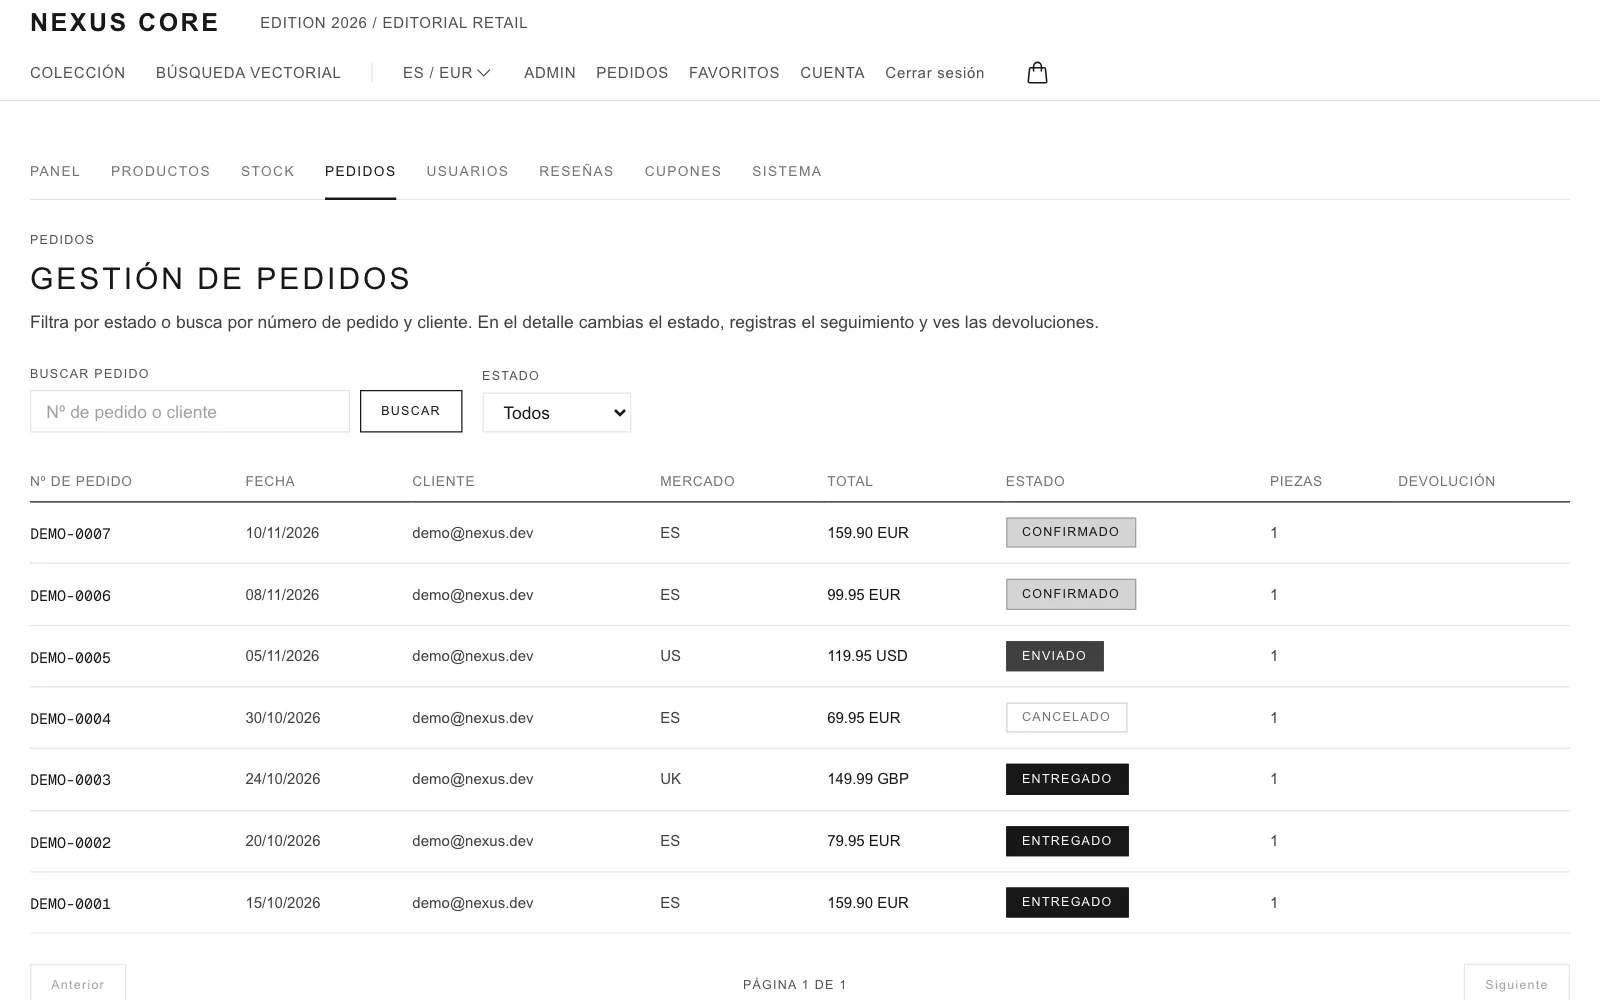
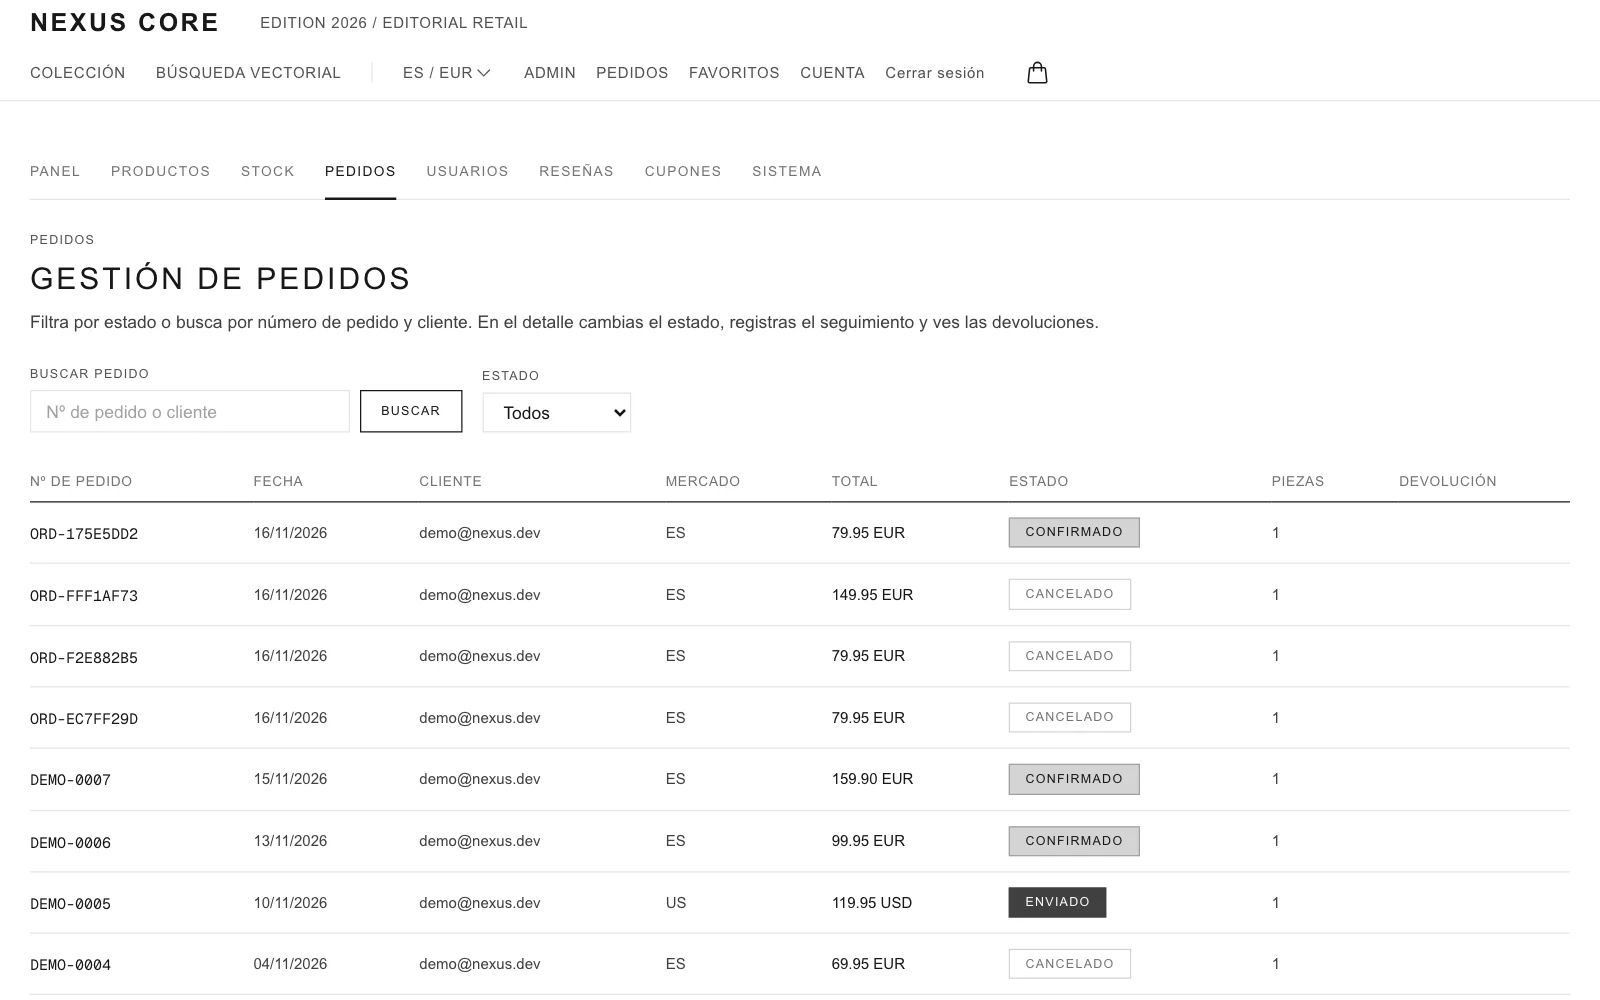
docs(readme): demo en vivo y capturas de producción
Añade la sección «Demo en vivo» al README (topología Vercel/Render/Neon,
cuentas demo, pago de prueba y limitaciones conocidas), regenera las
capturas de la landing desde producción y actualiza el estado en AGENTS.md.

diff --git a/AGENTS.md b/AGENTS.md
@@ -12,7 +12,8 @@
 | **Rama activa** | `main` = **V4 `product-reviews` + V5 `coupons` + V6 `photos-per-color`** mergeadas todas; ramas `feat/coupons` y `feat/photos-per-color` ya integradas |
 | **Fase** | **Hoja de ruta 6–15 (ecommerce completo) — aprobada** — **Fase 6 Deuda técnica (previa), 7.1–7.6 y mini-feature `product-photos` completadas** · **Fase 7 panel de administración COMPLETA (7.1–7.6)** · mini-features **`checkout-payment-grid`**, **`final-price-display`**, **`color-and-care`** completadas y **mergeadas** · fases 1–5 y 3.x/4.x completadas · **bloque «Mejoras de vitrina» V1–V6 COMPLETO** (V1 reviews, V2 zoom-lightbox, V3 wishlist, V4 product-reviews, V5 coupons, V6 fotos por color) · **Fase 8 — Operación interna y monitoring COMPLETA** (fuera del bloque V1–V6, PSP desactivada) |
 | **Tarea** | **Fase 10 — Landing, despliegue y docs**: **PR A** (código y configuración: Docker, perfiles `prod`/`demo`, modo demo, landing `/proyecto`, guía de despliegue, ADR-0008) en `feat/landing-deploy-docs`; **pendiente**: desplegar (acciones del usuario con `docs/deployment.md`) y **PR B** (README de portfolio con capturas de producción) |
-| **Tarea siguiente** | **Despliegue real + PR B de la Fase 10** → **Fase 11 — Calidad final y CI/CD** → **Fase 12 — i18n ES/EN (opcional)** → **Fase 13 — Lanzamiento LinkedIn** |
+| **Despliegue** | **Verificado en producción (2026-11-16)**: Vercel + Render + Neon con Stripe en test mode — pago, confirmación por webhook (`CONFIRMED`) y reembolsos parcial y total desde el panel, visibles en Stripe. ⚠ Stripe lanza hCaptcha a navegadores con bloqueadores de contenido (el `confirm` da 400): usar ventana limpia o confirmar el PaymentIntent por API. Apple Pay sigue sin verificar |
+| **Tarea siguiente** | **PR B de la Fase 10 (README de portfolio + capturas de producción)** → **Fase 11 — Calidad final y CI/CD** → **Fase 12 — i18n ES/EN (opcional)** → **Fase 13 — Lanzamiento LinkedIn** |
 | **Pendiente** | **Roadmap de portfolio (el proyecto ya no se vende)**: despliegue + PR B (10), Calidad y CI/CD (11), i18n ES/EN opcional (12), Lanzamiento LinkedIn (13). **Descartado**: carriers, RMA ampliado, push/abandono de carrito, FR/DE/IT |
 | **Actualizado** | 2026-11-11 |
 

diff --git a/README.md b/README.md
@@ -8,6 +8,28 @@ Backend transaccional de alto rendimiento para retail global, diseñado bajo est
 ![Test Coverage](https://img.shields.io/badge/Coverage->90%25-success)
 ![Architecture](https://img.shields.io/badge/Architecture-Clean%20%2F%20Layered-purple)
 
+## Demo en vivo
+
+**[nexus-commerce-core.vercel.app](https://nexus-commerce-core.vercel.app)** · [Descripción del proyecto](https://nexus-commerce-core.vercel.app/proyecto)
+
+Despliegue: **Vercel** (Next.js, proxy `/api/v1/*`) → **Render** (Spring Boot en Docker, perfiles `prod,demo`) → **Neon** (PostgreSQL 16 + pgvector), con **Stripe en test mode** y webhook firmado hacia el backend. Guía paso a paso en [`docs/deployment.md`](docs/deployment.md).
+
+| | |
+|:---|:---|
+| ![Catálogo](frontend/public/landing/catalogo.webp) | ![Ficha de producto](frontend/public/landing/ficha.webp) |
+| ![Bolsa y checkout](frontend/public/landing/carrito.webp) | ![Pedidos y pago](frontend/public/landing/pago.webp) |
+| ![Pedidos en el panel](frontend/public/landing/admin-pedidos.webp) | ![Dashboard](frontend/public/landing/dashboard.webp) |
+
+- **Cuenta de cliente:** `demo@nexus.dev` / `Demo1234!` · **administrador:** `admin@nexus.dev` / `Admin1234!` (datos de demostración públicos).
+- **Pago:** tarjeta de prueba `4242 4242 4242 4242`, cualquier fecha futura y CVC. El pedido pasa a *Confirmado* solo cuando llega el webhook firmado de Stripe; el panel permite reembolsos parciales y totales.
+- **Modo demo:** se bloquean las acciones destructivas (borrar catálogo y cupones, cambiar usuarios, recuperar contraseña); el resto del panel funciona y los datos pueden restablecerse en cualquier momento (`reset-demo.sh`).
+
+**Limitaciones conocidas:**
+- El backend en Render (plan gratuito) se duerme por inactividad: la primera petición puede tardar ~50 s.
+- Stripe puede mostrar un hCaptcha a navegadores automatizados o con bloqueadores de contenido, lo que impide completar el pago tecleado.
+- Apple Pay requiere verificar el dominio en Stripe y no está verificado en esta demo.
+- `GET /orders/{n}` no comprueba el propietario del pedido (deuda técnica preexistente).
+
 ---
 
 ## 1. Arquitectura y Principios de Diseño
